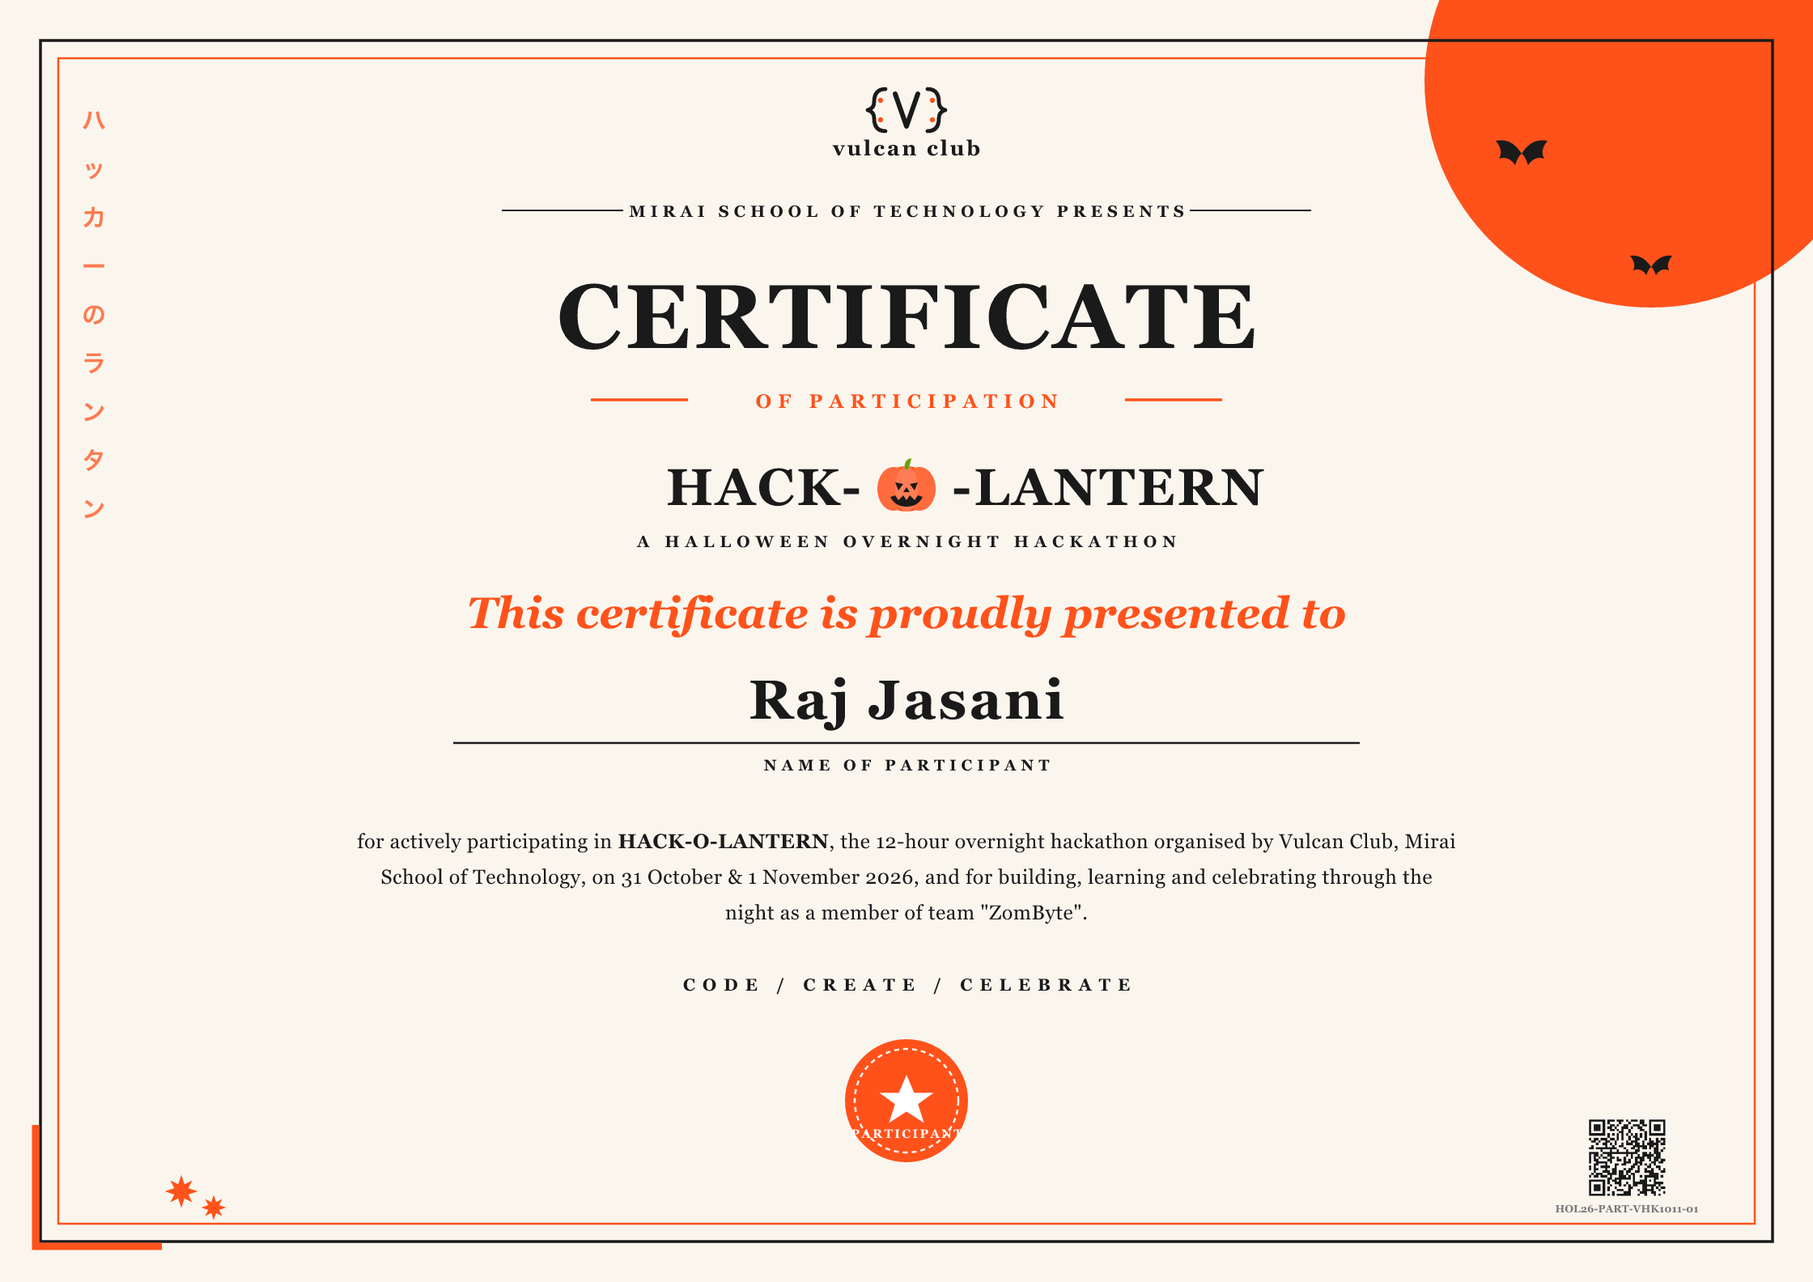
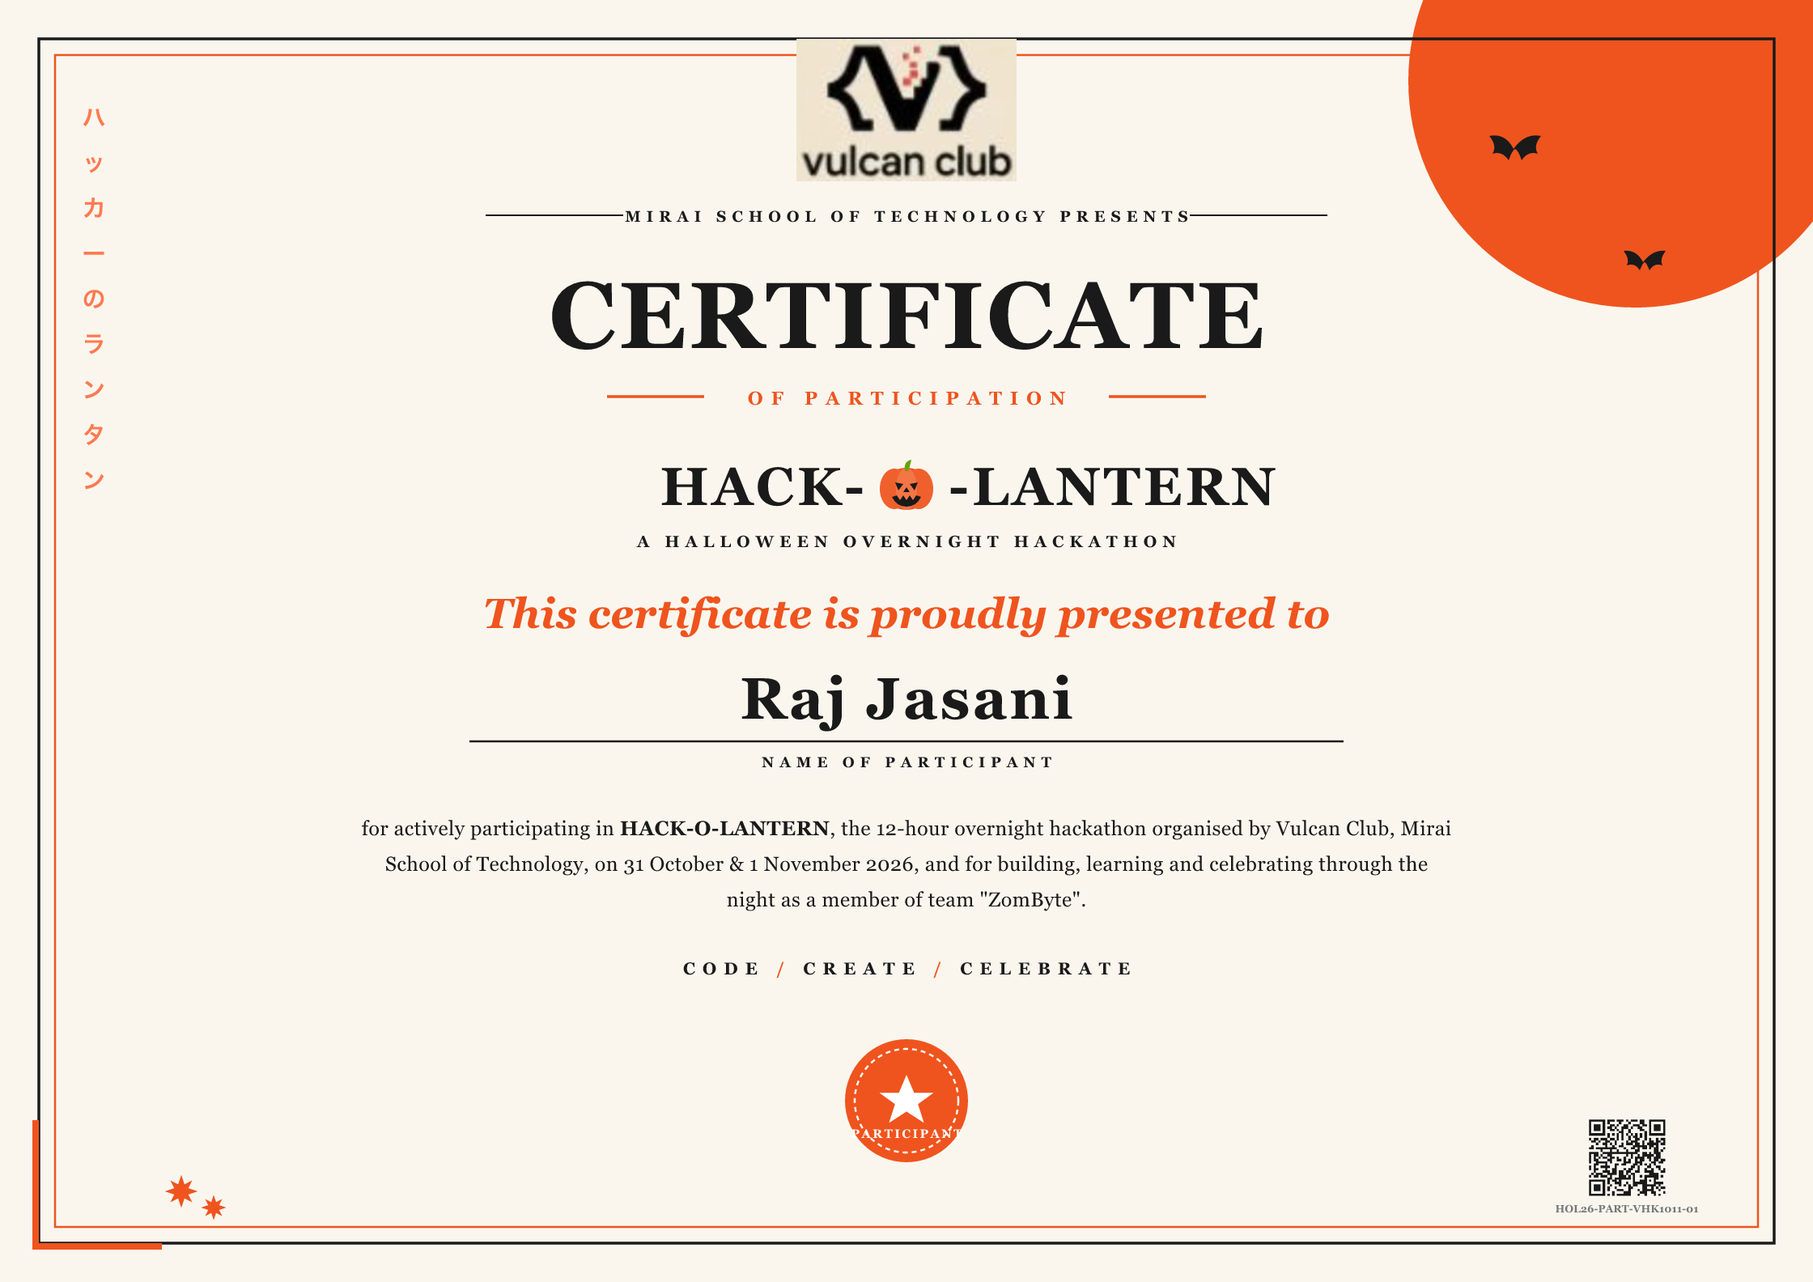
fix(certificate): match official typography, fonts, and pixel-exact Vulcan Club emblem without signatories

diff --git a/api/_lib/certificate-generator.js b/api/_lib/certificate-generator.js
@@ -1,6 +1,9 @@
 import QRCode from 'qrcode';
 import { Resvg } from '@resvg/resvg-js';
 
+// Official Vulcan Club Logo mark with angular braces {V} and logotype (extracted from official vector/brand assets)
[1 lines of base64/hex data omitted]
+
 function escapeHtml(value) {
   return String(value || '').replace(/[&<>"']/g, (c) => ({
     '&': '&amp;', '<': '&lt;', '>': '&gt;', '"': '&quot;', "'": '&#39;',
@@ -15,18 +18,18 @@ export function generateCertificateId(teamId, position = 1) {
 
 /**
  * Generates the official vector SVG for Hack-O-Lantern 2026 Participation Certificate.
- * Exactly matches the event certificate layout:
+ * Exactly matches the official event certificate template:
  * - Warm parchment cream canvas (#FAF6EE)
  * - Top-right harvest blood-orange moon with flying bats
  * - Vertical Japanese Katakana title on left margin (ハッカーのランタン)
  * - Dual black & orange borders with bottom-left corner star accents
- * - Vulcan Club brand logo & "MIRAI SCHOOL OF TECHNOLOGY PRESENTS"
- * - "CERTIFICATE OF PARTICIPATION" in bold serif & orange letterspacing
+ * - Official Vulcan Club {V} brand logo & "MIRAI SCHOOL OF TECHNOLOGY PRESENTS"
+ * - "CERTIFICATE OF PARTICIPATION" in Didone modern display serif & orange tracked sans-serif
  * - "HACK- 🎃 -LANTERN / A HALLOWEEN OVERNIGHT HACKATHON"
- * - Script "This certificate is proudly presented to"
+ * - Cursive script "This certificate is proudly presented to"
  * - Participant Name with official underline & citation paragraph
  * - "CODE / CREATE / CELEBRATE"
- * - Official Orange Participant Star Badge (without signatures)
+ * - Official Orange Participant Star Badge (without signatories)
  * - Cryptographic verification QR code
  */
 export async function generateCertificateSvg({
@@ -54,141 +57,127 @@ export async function generateCertificateSvg({
   const name = escapeHtml(participantName || 'Participant Name');
   const team = escapeHtml(teamName || 'Team');
 
-  return `<svg xmlns="http://www.w3.org/2000/svg" viewBox="0 0 1120 792" width="1120" height="792" style="background:#FAF6EE; aspect-ratio:1120/792; width:100%; height:auto; display:block; font-family:'Cinzel', 'Playfair Display', 'Georgia', serif;">
+  return `<svg xmlns="http://www.w3.org/2000/svg" viewBox="0 0 1120 792" width="1120" height="792" style="background:#FAF6EE; aspect-ratio:1120/792; width:100%; height:auto; display:block;">
   <defs>
     <style>
-      @import url('https://fonts.googleapis.com/css2?family=Cinzel:wght@600;700;800;900&amp;family=Playfair+Display:ital,wght@0,600;0,700;0,800;0,900;1,700&amp;family=Caveat:wght@600;700&amp;family=Montserrat:wght@500;600;700;800;900&amp;display=swap');
+      @import url('https://fonts.googleapis.com/css2?family=Playfair+Display:ital,wght@0,600;0,700;0,800;0,900;1,700&amp;family=Cinzel:wght@700;800;900&amp;family=Caveat:wght@700&amp;family=Montserrat:wght@500;600;700;800;900&amp;family=Inter:wght@400;500;600;700&amp;display=swap');
     </style>
   </defs>
 
-  <!-- 1. Background Cream Canvas -->
+  <!-- 1. Background Cream Parchment Canvas -->
   <rect width="1120" height="792" fill="#FAF6EE"/>
 
   <!-- 2. Top-Right Orange Harvest Moon & Bats -->
   <g>
-    <circle cx="1020" cy="50" r="140" fill="#FF521B"/>
+    <circle cx="1010" cy="50" r="140" fill="#EF541E"/>
     <!-- Bat 1 (Upper Left) -->
-    <path d="M940,95 Q946,85 956,87 Q951,93 954,98 Q948,96 944,102 Q942,96 940,95 Q938,96 936,102 Q932,96 926,98 Q929,93 924,87 Q934,85 940,95 Z" fill="#1A1A1A"/>
+    <path d="M935,92 Q942,82 952,84 Q947,90 950,95 Q944,93 940,99 Q938,93 936,92 Q934,93 932,99 Q928,93 922,95 Q925,90 920,84 Q930,82 935,92 Z" fill="#1A1A1A"/>
     <!-- Bat 2 (Lower Right) -->
-    <path d="M1020,165 Q1025,157 1033,158 Q1029,163 1031,167 Q1026,165 1023,170 Q1021,165 1020,165 Q1019,165 1017,170 Q1014,165 1009,167 Q1011,163 1007,158 Q1015,157 1020,165 Z" fill="#1A1A1A"/>
+    <path d="M1015,162 Q1021,154 1029,155 Q1025,160 1027,164 Q1022,162 1019,167 Q1017,162 1016,162 Q1015,162 1013,167 Q1010,162 1005,164 Q1007,160 1003,155 Q1011,154 1015,162 Z" fill="#1A1A1A"/>
   </g>
 
   <!-- 3. Double Outer Border Lines -->
   <!-- Outer Black Frame -->
-  <rect x="25" y="25" width="1070" height="742" rx="0" fill="none" stroke="#1A1A1A" stroke-width="1.8"/>
+  <rect x="24" y="24" width="1072" height="744" fill="none" stroke="#1A1A1A" stroke-width="1.8"/>
   <!-- Inner Orange Frame -->
-  <rect x="36" y="36" width="1048" height="720" rx="0" fill="none" stroke="#FF521B" stroke-width="1.2"/>
+  <rect x="34" y="34" width="1052" height="724" fill="none" stroke="#EF541E" stroke-width="1.2"/>
 
   <!-- Bottom-Left Decorative Corner Bracket & Stars -->
-  <path d="M22,695 L22,770 L100,770" fill="none" stroke="#FF521B" stroke-width="4.5"/>
-  <!-- Two 8-pointed Orange Sparkle Stars -->
-  <g transform="translate(112, 736) scale(0.85)" fill="#FF521B">
+  <path d="M22,692 L22,770 L100,770" fill="none" stroke="#EF541E" stroke-width="4"/>
+  <!-- Two Orange Sparkle Stars -->
+  <g transform="translate(112, 736) scale(0.85)" fill="#EF541E">
     <polygon points="0,-12 3,-3 12,0 3,3 0,12 -3,3 -12,0 -3,-3"/>
     <polygon points="-8,-8 0,-4 8,-8 4,0 8,8 0,4 -8,8 -4,0"/>
   </g>
-  <g transform="translate(132, 746) scale(0.65)" fill="#FF521B">
+  <g transform="translate(132, 746) scale(0.65)" fill="#EF541E">
     <polygon points="0,-12 3,-3 12,0 3,3 0,12 -3,3 -12,0 -3,-3"/>
     <polygon points="-8,-8 0,-4 8,-8 4,0 8,8 0,4 -8,8 -4,0"/>
   </g>
 
   <!-- 4. Left Margin Vertical Japanese Katakana: ハッカーのランタン -->
-  <g fill="#FF7A50" font-family="'Hiragino Kaku Gothic ProN', 'Yu Gothic', sans-serif" font-size="15" font-weight="700" text-anchor="middle">
-    <text x="58" y="80">ハ</text>
-    <text x="58" y="110">ッ</text>
-    <text x="58" y="140">カ</text>
-    <text x="58" y="170">ー</text>
-    <text x="58" y="200">の</text>
-    <text x="58" y="230">ラ</text>
-    <text x="58" y="260">ン</text>
-    <text x="58" y="290">タ</text>
-    <text x="58" y="320">ン</text>
+  <g fill="#FF7A50" font-family="'Hiragino Kaku Gothic ProN', 'Yu Gothic', 'Noto Sans JP', sans-serif" font-size="14.5" font-weight="700" text-anchor="middle">
+    <text x="58" y="78">ハ</text>
+    <text x="58" y="106">ッ</text>
+    <text x="58" y="134">カ</text>
+    <text x="58" y="162">ー</text>
+    <text x="58" y="190">の</text>
+    <text x="58" y="218">ラ</text>
+    <text x="58" y="246">ン</text>
+    <text x="58" y="274">タ</text>
+    <text x="58" y="302">ン</text>
   </g>
 
-  <!-- 5. Top Brand Header: Vulcan Club Logo & Presents Rule -->
+  <!-- 5. Top Brand Header: Official Vulcan Club Logo & Presents Rule -->
   <g transform="translate(560, 68)" text-anchor="middle">
-    <!-- Vulcan {V} mark: Opening brace { on left, V in center, Closing brace } on right -->
-    <!-- Left Opening Brace { -->
-    <path d="M-13,-13 Q-20,-13 -20,-5 Q-20,-1 -24,0 Q-20,1 -20,5 Q-20,13 -13,13" fill="none" stroke="#1A1A1A" stroke-width="2.4" stroke-linecap="round" stroke-linejoin="round"/>
-    <circle cx="-16" cy="-6" r="1.6" fill="#FF521B"/>
-    <circle cx="-16" cy="6" r="1.6" fill="#FF521B"/>
-
-    <!-- Center V -->
-    <path d="M-7,-10 L0,10 L7,-10" fill="none" stroke="#1A1A1A" stroke-width="3" stroke-linecap="round" stroke-linejoin="round"/>
-
-    <!-- Right Closing Brace } -->
-    <path d="M13,-13 Q20,-13 20,-5 Q20,-1 24,0 Q20,1 20,5 Q20,13 13,13" fill="none" stroke="#1A1A1A" stroke-width="2.4" stroke-linecap="round" stroke-linejoin="round"/>
-    <circle cx="16" cy="-6" r="1.6" fill="#FF521B"/>
-    <circle cx="16" cy="6" r="1.6" fill="#FF521B"/>
-
-    <text x="0" y="28" font-family="'Montserrat', -apple-system, sans-serif" font-size="13" font-weight="800" fill="#1A1A1A" letter-spacing="1.5">vulcan club</text>
+    <image href="${VULCAN_LOGO_DATA_URL}" x="-68" y="-44" width="136" height="88" preserveAspectRatio="xMidYMid meet"/>
   </g>
 
   <!-- Presents Divider Rule -->
-  <g transform="translate(560, 134)" text-anchor="middle">
-    <line x1="-250" y1="-4" x2="-175" y2="-4" stroke="#1A1A1A" stroke-width="1"/>
-    <text x="0" y="0" font-family="'Montserrat', -apple-system, sans-serif" font-size="10" font-weight="700" fill="#1A1A1A" letter-spacing="3" text-transform="uppercase">MIRAI SCHOOL OF TECHNOLOGY PRESENTS</text>
-    <line x1="175" y1="-4" x2="250" y2="-4" stroke="#1A1A1A" stroke-width="1"/>
+  <g transform="translate(560, 137)" text-anchor="middle">
+    <line x1="-260" y1="-4" x2="-175" y2="-4" stroke="#1A1A1A" stroke-width="1"/>
+    <text x="0" y="0" font-family="'Montserrat', 'Inter', -apple-system, sans-serif" font-size="9.5" font-weight="600" fill="#1A1A1A" letter-spacing="3.5">MIRAI SCHOOL OF TECHNOLOGY PRESENTS</text>
+    <line x1="175" y1="-4" x2="260" y2="-4" stroke="#1A1A1A" stroke-width="1"/>
   </g>
 
-  <!-- 6. Main Certificate Title -->
+  <!-- 6. Main Certificate Title: CERTIFICATE OF PARTICIPATION -->
   <g transform="translate(560, 215)" text-anchor="middle">
-    <text x="0" y="0" font-family="'Cinzel', 'Playfair Display', 'Georgia', serif" font-size="56" font-weight="900" fill="#1A1A1A" letter-spacing="2">CERTIFICATE</text>
+    <text x="0" y="0" font-family="'Playfair Display', 'Didot', 'Bodoni 72', 'Cinzel', 'Georgia', serif" font-size="58" font-weight="900" fill="#1A1A1A" letter-spacing="1.5">CERTIFICATE</text>
     <!-- OF PARTICIPATION with flanking orange lines -->
-    <line x1="-195" y1="32" x2="-135" y2="32" stroke="#FF521B" stroke-width="1.8"/>
-    <text x="0" y="37" font-family="'Montserrat', -apple-system, sans-serif" font-size="12" font-weight="800" fill="#FF521B" letter-spacing="4">OF PARTICIPATION</text>
-    <line x1="135" y1="32" x2="195" y2="32" stroke="#FF521B" stroke-width="1.8"/>
+    <line x1="-185" y1="30" x2="-125" y2="30" stroke="#EF541E" stroke-width="1.8"/>
+    <text x="0" y="35" font-family="'Montserrat', 'Inter', -apple-system, sans-serif" font-size="11.5" font-weight="800" fill="#EF541E" letter-spacing="5">OF PARTICIPATION</text>
+    <line x1="125" y1="30" x2="185" y2="30" stroke="#EF541E" stroke-width="1.8"/>
   </g>
 
   <!-- 7. Event Title: HACK- 🎃 -LANTERN -->
   <g transform="translate(560, 312)" text-anchor="middle">
-    <text x="-28" y="0" font-family="'Cinzel', 'Playfair Display', serif" font-size="32" font-weight="900" fill="#1A1A1A" letter-spacing="1.5" text-anchor="end">HACK-</text>
+    <text x="-26" y="0" font-family="'Playfair Display', 'Cinzel', 'Georgia', serif" font-size="33" font-weight="900" fill="#1A1A1A" letter-spacing="2" text-anchor="end">HACK-</text>
     
-    <!-- Cute Carved Pumpkin at Center -->
+    <!-- Jack-o'-Lantern Pumpkin at Center -->
     <g transform="translate(0, -10)">
-      <ellipse cx="0" cy="0" rx="16" ry="14" fill="#FF521B"/>
-      <ellipse cx="-8" cy="0" rx="10" ry="13.5" fill="#FF6B3D"/>
-      <ellipse cx="8" cy="0" rx="10" ry="13.5" fill="#FF6B3D"/>
-      <ellipse cx="0" cy="0" rx="7" ry="14" fill="#FF7D54"/>
+      <ellipse cx="0" cy="0" rx="15" ry="13" fill="#EF541E"/>
+      <ellipse cx="-7.5" cy="0" rx="9" ry="12.5" fill="#F0602D"/>
+      <ellipse cx="7.5" cy="0" rx="9" ry="12.5" fill="#F0602D"/>
+      <ellipse cx="0" cy="0" rx="6.5" ry="13" fill="#F47545"/>
       <!-- Stem -->
-      <path d="M-1,-12 Q-2,-18 3,-19 Q2,-14 1,-12 Z" fill="#65a30d"/>
+      <path d="M-1,-11 Q-2,-17 3,-18 Q2,-13 1,-11 Z" fill="#65a30d"/>
       <!-- Carved Eyes -->
       <polygon points="-7,-4 -2,-3 -5,1" fill="#1A1A1A"/>
       <polygon points="7,-4 2,-3 5,1" fill="#1A1A1A"/>
       <!-- Nose -->
       <polygon points="0,-1 -2,2 2,2" fill="#1A1A1A"/>
       <!-- Sawtooth Smile -->
-      <path d="M-10,5 L-7,4 L-5,7 L-2,4 L0,7 L2,4 L5,7 L7,4 L10,5 Q7,11 0,11 Q-7,11 -10,5 Z" fill="#1A1A1A"/>
+      <path d="M-9,5 L-6,4 L-4,7 L-2,4 L0,7 L2,4 L4,7 L6,4 L9,5 Q6,11 0,11 Q-6,11 -9,5 Z" fill="#1A1A1A"/>
     </g>
 
-    <text x="28" y="0" font-family="'Cinzel', 'Playfair Display', serif" font-size="32" font-weight="900" fill="#1A1A1A" letter-spacing="1.5" text-anchor="start">-LANTERN</text>
+    <text x="26" y="0" font-family="'Playfair Display', 'Cinzel', 'Georgia', serif" font-size="33" font-weight="900" fill="#1A1A1A" letter-spacing="2" text-anchor="start">-LANTERN</text>
 
     <!-- Subtitle -->
-    <text x="0" y="26" font-family="'Montserrat', -apple-system, sans-serif" font-size="10" font-weight="700" fill="#1A1A1A" letter-spacing="3.5">A HALLOWEEN OVERNIGHT HACKATHON</text>
+    <text x="0" y="26" font-family="'Montserrat', 'Inter', -apple-system, sans-serif" font-size="10" font-weight="700" fill="#1A1A1A" letter-spacing="3.5">A HALLOWEEN OVERNIGHT HACKATHON</text>
   </g>
 
   <!-- 8. Presented To Cursive Line -->
   <g transform="translate(560, 388)" text-anchor="middle">
-    <text x="0" y="0" font-family="'Caveat', 'Playball', 'Brush Script MT', cursive" font-size="27" font-weight="700" fill="#FF521B" font-style="italic">This certificate is proudly presented to</text>
+    <text x="0" y="0" font-family="'Caveat', 'Playball', 'SignPainter', 'Brush Script MT', cursive" font-size="26" font-weight="700" fill="#EF541E" font-style="italic">This certificate is proudly presented to</text>
   </g>
 
   <!-- 9. Participant Name Section -->
   <g transform="translate(560, 444)" text-anchor="middle">
     <!-- Recipient Name -->
-    <text x="0" y="0" font-family="'Cinzel', 'Playfair Display', 'Georgia', serif" font-size="34" font-weight="800" fill="#1A1A1A" letter-spacing="1.5">
+    <text x="0" y="0" font-family="'Playfair Display', 'Didot', 'Bodoni 72', 'Cinzel', 'Georgia', serif" font-size="36" font-weight="800" fill="#1A1A1A" letter-spacing="1.5">
       ${name}
     </text>
 
     <!-- Participant Line -->
-    <line x1="-280" y1="15" x2="280" y2="15" stroke="#1A1A1A" stroke-width="1.2"/>
+    <line x1="-270" y1="14" x2="270" y2="14" stroke="#1A1A1A" stroke-width="1.2"/>
 
     <!-- Subtitle Label -->
-    <text x="0" y="32" font-family="'Montserrat', -apple-system, sans-serif" font-size="9.5" font-weight="700" fill="#1A1A1A" letter-spacing="3">
+    <text x="0" y="30" font-family="'Montserrat', 'Inter', -apple-system, sans-serif" font-size="9" font-weight="700" fill="#1A1A1A" letter-spacing="3.5">
       NAME OF PARTICIPANT
     </text>
   </g>
 
   <!-- 10. Citation Paragraph Text -->
-  <g transform="translate(560, 524)" text-anchor="middle" font-family="'Montserrat', -apple-system, sans-serif" font-size="12.5" fill="#1A1A1A" letter-spacing="0.3">
+  <g transform="translate(560, 516)" text-anchor="middle" font-family="'Inter', 'Montserrat', -apple-system, sans-serif" font-size="12.5" fill="#1A1A1A" letter-spacing="0.25">
     <text x="0" y="0">
       for actively participating in <tspan font-weight="700">HACK-O-LANTERN</tspan>, the 12-hour overnight hackathon organised by Vulcan Club, Mirai
     </text>
@@ -200,15 +189,15 @@ export async function generateCertificateSvg({
     </text>
 
     <!-- Code / Create / Celebrate -->
-    <text x="0" y="88" font-size="10.5" font-weight="800" fill="#1A1A1A" letter-spacing="4.5">
-      CODE   /   CREATE   /   CELEBRATE
+    <text x="0" y="86" font-family="'Montserrat', 'Inter', -apple-system, sans-serif" font-size="10.5" font-weight="800" fill="#1A1A1A" letter-spacing="4.5">
+      CODE   <tspan fill="#EF541E">/</tspan>   CREATE   <tspan fill="#EF541E">/</tspan>   CELEBRATE
     </text>
   </g>
 
-  <!-- 11. Bottom Center Official Participant Medal (NO Signatures) -->
+  <!-- 11. Bottom Center Official Participant Medal (NO Signatures / Signatories) -->
   <g transform="translate(560, 680)" text-anchor="middle">
     <!-- Orange Circular Badge -->
-    <circle cx="0" cy="0" r="38" fill="#FF521B"/>
+    <circle cx="0" cy="0" r="38" fill="#EF541E"/>
     <circle cx="0" cy="0" r="32" fill="none" stroke="#FFFFFF" stroke-width="1.2" stroke-dasharray="3, 2.5"/>
     <!-- 5-Pointed White Star -->
     <polygon points="0,-16 4.7,-4.9 16.8,-4.9 7.1,2.1 10.8,13.7 0,6.7 -10.8,13.7 -7.1,2.1 -16.8,-4.9 -4.7,-4.9" fill="#FFFFFF"/>
@@ -263,16 +252,16 @@ export function buildCertificateEmailHtml({
   <title>Your Hack-O-Lantern 2026 Certificate</title>
 </head>
 <body style="margin:0;padding:0;background-color:#FAF6EE;color:#1A1A1A;font-family:-apple-system,BlinkMacSystemFont,'Segoe UI',Roboto,Helvetica,Arial,sans-serif;line-height:1.6;">
-  <div style="max-width:640px;margin:30px auto;background:#FFFFFF;border:2px solid #FF521B;border-radius:20px;overflow:hidden;box-shadow:0 12px 40px rgba(0,0,0,0.12);">
+  <div style="max-width:640px;margin:30px auto;background:#FFFFFF;border:2px solid #EF541E;border-radius:20px;overflow:hidden;box-shadow:0 12px 40px rgba(0,0,0,0.12);">
     <!-- Header Banner -->
     <div style="background:#FAF6EE;padding:36px 32px 24px;text-align:center;border-bottom:1px solid #FFD8CC;">
-      <div style="display:inline-block;padding:4px 14px;border-radius:999px;background:rgba(255,82,27,0.1);border:1px solid #FF521B;color:#FF521B;font-size:11px;font-weight:700;letter-spacing:2px;text-transform:uppercase;margin-bottom:14px;">
+      <div style="display:inline-block;padding:4px 14px;border-radius:999px;background:rgba(239,84,30,0.1);border:1px solid #EF541E;color:#EF541E;font-size:11px;font-weight:700;letter-spacing:2px;text-transform:uppercase;margin-bottom:14px;">
         VULCAN CLUB × MIRAI SCHOOL OF TECHNOLOGY
       </div>
       <h1 style="margin:0 0 8px;font-size:28px;font-weight:900;color:#1A1A1A;letter-spacing:1px;font-family:Georgia,serif;">
         HACK-O-LANTERN 2026
       </h1>
-      <p style="margin:0;color:#FF521B;font-size:14px;font-weight:700;letter-spacing:1px;text-transform:uppercase;">
+      <p style="margin:0;color:#EF541E;font-size:14px;font-weight:700;letter-spacing:1px;text-transform:uppercase;">
         Official Certificate of Participation
       </p>
     </div>
@@ -299,7 +288,7 @@ export function buildCertificateEmailHtml({
           </tr>
           <tr>
             <td style="padding:6px 0;color:#777;">Team Name</td>
-            <td style="padding:6px 0;text-align:right;font-weight:700;color:#FF521B;">${tName}</td>
+            <td style="padding:6px 0;text-align:right;font-weight:700;color:#EF541E;">${tName}</td>
           </tr>
           <tr>
             <td style="padding:6px 0;color:#777;">Certificate ID</td>
@@ -314,12 +303,12 @@ export function buildCertificateEmailHtml({
 
       <!-- Action Button -->
       <div style="text-align:center;margin-bottom:28px;">
-        <a href="${dUrl}&format=png" target="_blank" style="display:inline-block;background:#FF521B;color:#FFFFFF;font-weight:800;font-size:14px;padding:14px 32px;border-radius:12px;text-decoration:none;box-shadow:0 6px 20px rgba(255,82,27,0.3);">
+        <a href="${dUrl}&format=png" target="_blank" style="display:inline-block;background:#EF541E;color:#FFFFFF;font-weight:800;font-size:14px;padding:14px 32px;border-radius:12px;text-decoration:none;box-shadow:0 6px 20px rgba(239,84,30,0.3);">
           🖼 Download High-Res Certificate (PNG)
         </a>
       </div>
 
-      <div style="background:#FAF6EE;border-radius:12px;padding:14px;border:1px dashed #FF521B;text-align:center;">
+      <div style="background:#FAF6EE;border-radius:12px;padding:14px;border:1px dashed #EF541E;text-align:center;">
         <p style="margin:0;font-size:12px;color:#666;">
           Your certificate includes a cryptographic verification QR code that links to the official Vulcan verification ledger. You can share your PNG directly on LinkedIn, Twitter/X, resume, or portfolio!
         </p>
@@ -329,7 +318,7 @@ export function buildCertificateEmailHtml({
     <!-- Footer -->
     <div style="background:#FAF6EE;padding:20px 32px;border-top:1px solid #EAD8C7;text-align:center;font-size:11px;color:#777;">
       <p style="margin:0 0 6px;">Hack-O-Lantern 2026 • Organised by Vulcan Club × Mirai School of Technology</p>
-      <p style="margin:0;">For any certificate corrections, reach out to <a href="mailto:nexcell_rathinam@msot.org" style="color:#FF521B;text-decoration:none;">nexcell_rathinam@msot.org</a></p>
+      <p style="margin:0;">For any certificate corrections, reach out to <a href="mailto:nexcell_rathinam@msot.org" style="color:#EF541E;text-decoration:none;">nexcell_rathinam@msot.org</a></p>
     </div>
   </div>
 </body>
